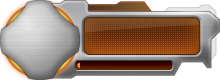
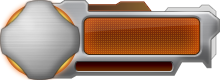
优化滑动条

diff --git a/oxplayer/oxplayer.js b/oxplayer/oxplayer.js
@@ -329,15 +329,16 @@ var DrawingClass = $f.Class(function(cid,skip)		// **拖拽Class**
 		if(this.moveing)
 		{
 			this.upEvent(event);
-			return;
+			return false;
 		}
-		if(this.tag.test(event.target.tagName) || event.which!=1 || this.down(event.pageX, event.pageY))
+		if(this.tag.test(event.target.tagName) || event.which!=1)
 			return;
+		if(this.down(event.pageX, event.pageY))
+			return false;
 		event.stopPropagation();
 		this.moveing = true;
 		this.docu[0].setCapture && this.docu[0].setCapture();
 		this.docu.mousemove($.proxy(this,"moveEvent")).mouseup($.proxy(this,"upEvent"));
-//		$(document).on("selectstart.ox_noselect", false);
 		this.passometer = 0;
 		return false;
 	} ,
@@ -346,7 +347,6 @@ var DrawingClass = $f.Class(function(cid,skip)		// **拖拽Class**
 	{
 		if(!this.moveing) return;
 		event.stopPropagation();
-//		$(document).off("selectstart.ox_noselect", false);
 		this.docu.unbind("mousemove", this.moveEvent).unbind("mouseup", this.upEvent);
 		this.docu[0].setCapture && this.docu[0].releaseCapture();
 		if(this.passometer>=this.skip)
@@ -1697,8 +1697,7 @@ var player = (function (p)		// **************播放对象
 			} ,
 			move: function (v)
 			{
-				ox.co.dialogTime.css("marginLeft",Math.round(v*10000)/100+"%")
-					.text($f.timeToString(v * lengthData));
+				ox.co.dialogTime.text($f.timeToString(v * lengthData));
 			} ,
 			end: function (v)
 			{
@@ -2274,8 +2273,7 @@ var ox = (function (ox)		// **播放器主对象**
 			'  <div class="_ox_timeText">0:00</div>' +		//当前播放时间信息
 			'  <div class="_ox_stateText">- - - -</div>' +	//播放状态信息
 			'  <div class="_ox_playSlider">' +				//播放进度滑动条
-			'    <div class="-ox-sche"><div></div></div>' +
-			'    <div class="_ox_dialogTime"></div>' +		//播放滑动条拖动预览时间
+			'    <div class="-ox-sche"><div><div class="_ox_dialogTime"></div></div></div>' +
 			'  </div>' +
 			'  <div class="_ox_volumeSlider">' +		//音量滑动条
 			'    <div class="-ox-sche"><div></div></div>' +

diff --git a/oxplayer/skin/skin2/skin.css b/oxplayer/skin/skin2/skin.css
@@ -91,24 +91,24 @@
 
 /*  播放进度滑动条 位置/大小/背景图片  */
 .oxplayer ._ox_playSlider {
-	left: 79px; top: 59px;
-	width: 82px; height: 13px;
-	padding-right: 11px;/*这里设置成和滑动手柄的width一个数值*/
-	background: url() no-repeat;
+	left: 77px; top: 60px;
+	width: 84px; height: 13px;
+	padding-right: 13px;/*这里设置成滑动手柄width一样的数值*/
 }
 /*  播放进度滑动条已滑过的背景图片  */
 .oxplayer ._ox_playSlider > .-ox-sche {
+	padding-right: 6px;/*这里设置成滑动手柄width一半的数值*/
 	background: url("playSlider.png");
 }
 /*  播放进度滑动条滑动手柄 大小/背景图片  */
 .oxplayer ._ox_playSlider > .-ox-sche > div {
-	width: 11px; height: 100%;
+	width: 13px; height: 100%;
 	background: url("playSliderH.png") no-repeat;
 }
 /*  播放滑动条拖动预览时间 大小/背景图片/字体  */
 .oxplayer ._ox_dialogTime {
 	width: 50px; height: 21px;
-	left: -46px; top: -31px;
+	left: -46px; top: -18px;
 	z-index: 299;
 	background: url("dialogTime.png") no-repeat;
 	padding-top: 3px;
@@ -121,11 +121,11 @@
 .oxplayer ._ox_volumeSlider {
 	left: 89px; top: 1px;
 	width: 62px; height: 10px;
-	padding-right: 0px;/*这里设置成和滑动手柄的width一个数值*/
-	background: url() no-repeat;
+	padding-right: 0px;/*这里设置成滑动手柄width一样的数值*/
 }
 /*  音量滑动条已滑过的背景图片  */
 .oxplayer ._ox_volumeSlider > div {
+	padding-right: 0px;/*这里设置成滑动手柄width一半的数值*/
 	background: url("volumeSlider.png") no-repeat;
 }
 /*  音量滑动条滑动手柄 大小/背景图片  */

diff --git a/oxplayer/skin/skin1/skin.css b/oxplayer/skin/skin1/skin.css
@@ -90,11 +90,11 @@
 .oxplayer ._ox_playSlider {
 	left: 31px; top: 62px;
 	width: 138px; height: 9px;
-	padding-right: 12px;/*这里设置成和滑动手柄的width一个数值*/
-	background: url() no-repeat;
+	padding-right: 12px;/*这里设置成滑动手柄width一样的数值*/
 }
 /*  播放进度滑动条已滑过的背景图片  */
 .oxplayer ._ox_playSlider > .-ox-sche {
+	padding-right: 6px;/*这里设置成滑动手柄width一半的数值*/
 	background: url("playSlider.png");
 }
 /*  播放进度滑动条滑动手柄 大小/背景图片  */
@@ -105,7 +105,7 @@
 /*  播放滑动条拖动预览时间 大小/背景图片/字体  */
 .oxplayer ._ox_dialogTime {
 	width: 51px; height: 23px;
-	left: -42px; top: 0px;
+	left: -42px; top: 9px;
 	background: url("dialogTime.png") no-repeat;
 	padding-top: 8px;
 	text-align: center;
@@ -117,11 +117,12 @@
 .oxplayer ._ox_volumeSlider {
 	left: 156px; top: 47px;
 	width: 35px; height: 11px;
-	padding-right: 0px;/*这里设置成和滑动手柄的width一个数值*/
+	padding-right: 0px;/*这里设置成滑动手柄width一样的数值*/
 	background: url() no-repeat;
 }
 /*  音量滑动条已滑过的背景图片  */
 .oxplayer ._ox_volumeSlider > div {
+	padding-right: 0px;/*这里设置成滑动手柄width一半的数值*/
 	background: url("volumeSlider.png") no-repeat;
 }
 /*  音量滑动条滑动手柄 大小/背景图片  */

diff --git a/oxplayer/plugins/lrc/oxplayer.lrc.js b/oxplayer/plugins/lrc/oxplayer.lrc.js
@@ -83,7 +83,7 @@ $o.com.openLrc = function ()
 
 $o.event.attach("windowsInitial", function (){
 	$p.win.setMove();
-	$p.win.setResize(null,{minw: 160, minh: 100, maxw: 400, maxh: 400});
+	$p.win.setResize(null,{minw: 180, minh: 150, maxw: 600, maxh: 500});
 	$p.co.title.text($p.word.title);
 	$p.win.event.attach("restate", function (v){
 		$o.getObject("ox.menu").itemState("openLrc",v!=0);

diff --git a/oxplayer/plugins/list/oxplayer.list.js b/oxplayer/plugins/list/oxplayer.list.js
@@ -349,7 +349,7 @@ var editList = (function (o)		//编辑播放列表对像
 		listUpdate(0);
 		editPlayList = editUserList = false;
 
-		$o.box.dialog({ text: dom , width: 240 , title: $p.word.editList , fun: close, bs: $p.word.dialogBs2 });
+		$o.box.dialog({ text: dom , width: 245 , title: $p.word.editList , fun: close, bs: $p.word.dialogBs2 });
 	}
 
 	function close()
